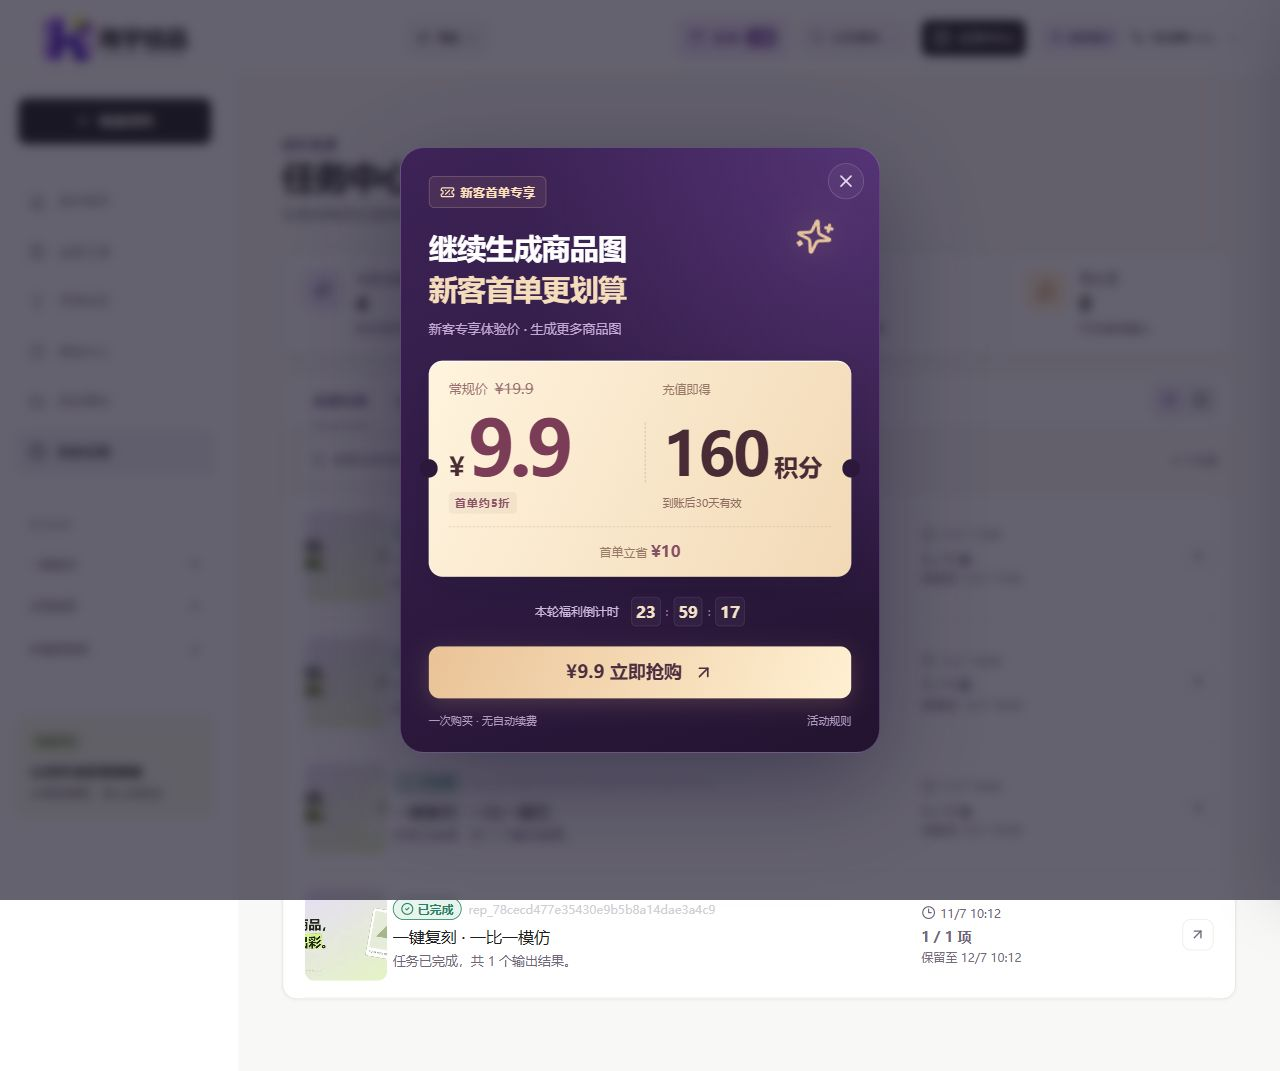
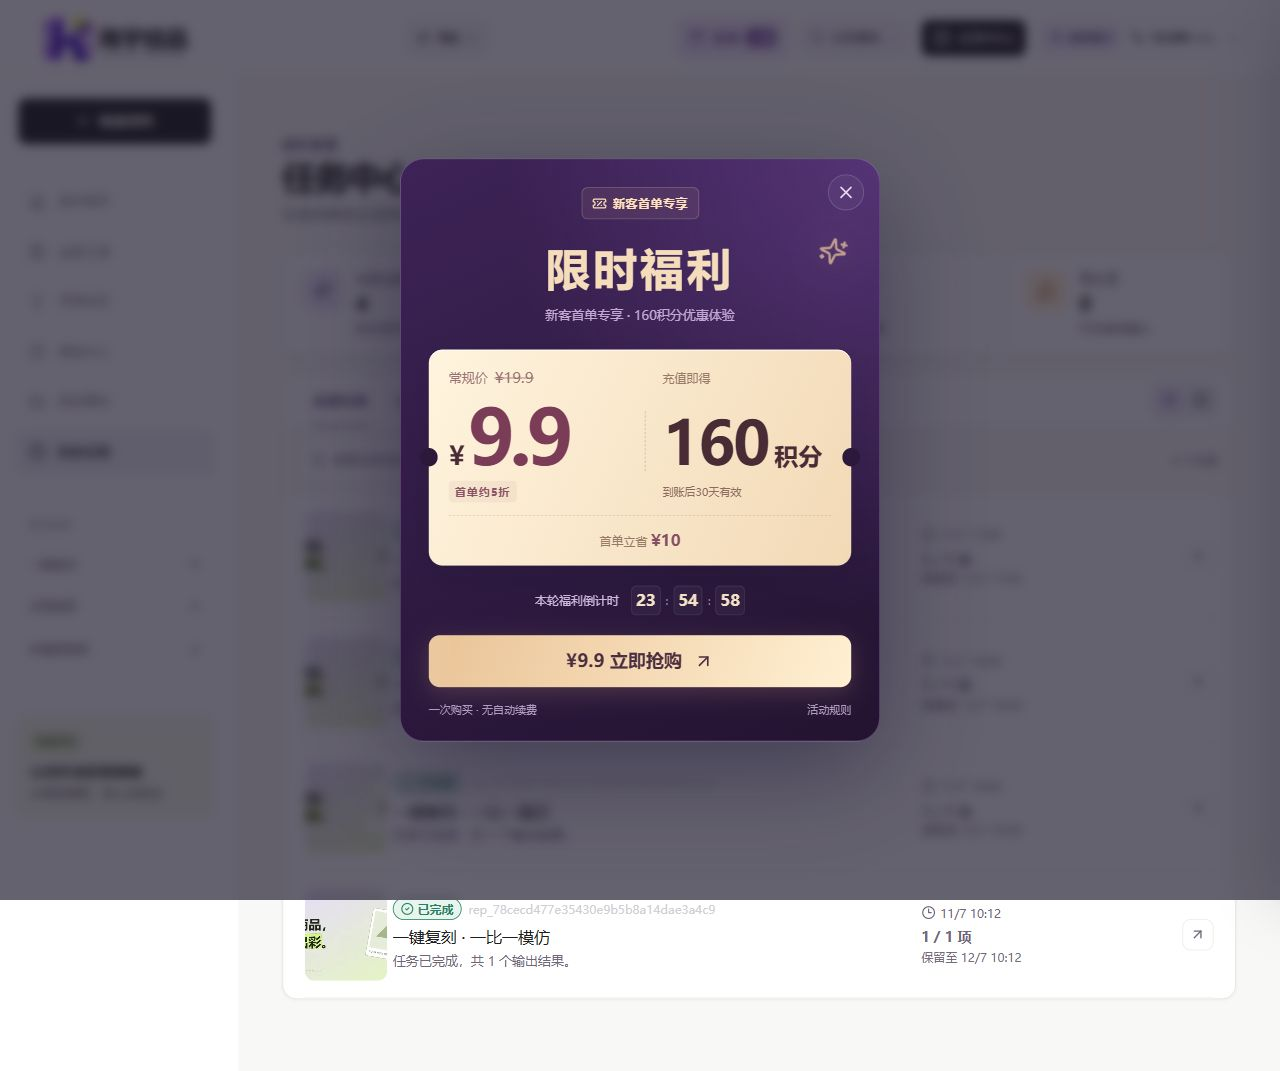
Center and enlarge the limited-time offer heading

Changed region(s): [[0.3125, 0.1849, 0.6875, 0.7087], [0.3125, 0.1232, 0.6875, 0.1849], [0.625, 0.1849, 0.6562, 0.2465]]

diff --git a/components/newcomer-offer-controller.tsx b/components/newcomer-offer-controller.tsx
@@ -114,7 +114,7 @@ export function NewcomerOfferModal({offer,receivedAt,now,onClose}:{offer:Offer;r
   useEffect(()=>{if(time.seconds===0)onClose();},[time.seconds,onClose]);
   return <dialog ref={dialog} className={styles.dialog} aria-labelledby="newcomer-offer-title" onCancel={event=>{event.preventDefault();onClose();}} onClick={event=>{if(event.target===event.currentTarget){const r=event.currentTarget.getBoundingClientRect();if(event.clientX<r.left||event.clientX>r.right||event.clientY<r.top||event.clientY>r.bottom)onClose();}}}>
     <button type="button" className={styles.close} aria-label="关闭新人优惠" onClick={onClose}><X size={20}/></button>
-    <div className={styles.top}><span className={styles.badge}><TicketPercent size={15}/>新客首单专享</span><Sparkles className={styles.sparkle} size={38}/><h2 id="newcomer-offer-title">继续生成商品图<br/><em>新客首单更划算</em></h2><p>新客专享体验价 · 生成更多商品图</p></div>
+    <div className={styles.top}><span className={styles.badge}><TicketPercent size={15}/>新客首单专享</span><Sparkles className={styles.sparkle} size={38}/><h2 id="newcomer-offer-title">限时福利</h2><p>新客首单专享 · 160积分优惠体验</p></div>
     <div className={styles.coupon}>
       <div className={styles.price}>
         <small className={styles.originalPrice}>常规价 <s>¥{(offer.regular_amount_fen/100).toFixed(1)}</s></small>

diff --git a/components/newcomer-offer-controller.module.css b/components/newcomer-offer-controller.module.css
@@ -24,3 +24,5 @@
 @media(max-width:480px){.coupon{--credit-inset:12px;gap:8px 13px}.priceValue>span{font-size:24px}.priceValue>strong{font-size:64px;letter-spacing:-4px}.creditValue{gap:5px}.creditValue>strong{font-size:44px;letter-spacing:-1px}.creditValue>span{font-size:21px}.benefit>.validity{font-size:10px}}
 @media(max-width:374px){.coupon{gap:7px 12px}.priceValue{gap:2px}.priceValue>span{font-size:22px}.priceValue>strong{font-size:58px}.creditValue{gap:4px}.creditValue>strong{font-size:38px}.creditValue>span{font-size:18px}}
 @media(max-width:340px){.dialog{padding-inline:16px}.coupon{--credit-inset:8px;padding-inline:14px;gap:7px 10px}.priceValue>span{font-size:20px}.priceValue>strong{font-size:52px}.creditValue>strong{font-size:36px}.creditValue>span{font-size:17px}}
+
+.top{text-align:center}.top h2{margin:22px 0 12px;font-size:44px;line-height:1.2;font-weight:750;letter-spacing:3px;color:#f5ddbc}.top p{margin-bottom:24px}.sparkle{right:4px;top:77px;width:29px;height:29px;opacity:.75}@media(max-width:480px){.top h2{font-size:40px;margin-top:22px;letter-spacing:2px}.top p{font-size:12px;margin-bottom:22px}.sparkle{right:-3px;top:77px;width:23px;height:23px}}@media(max-width:340px){.top h2{font-size:36px}.sparkle{right:0;width:20px;height:20px}}
